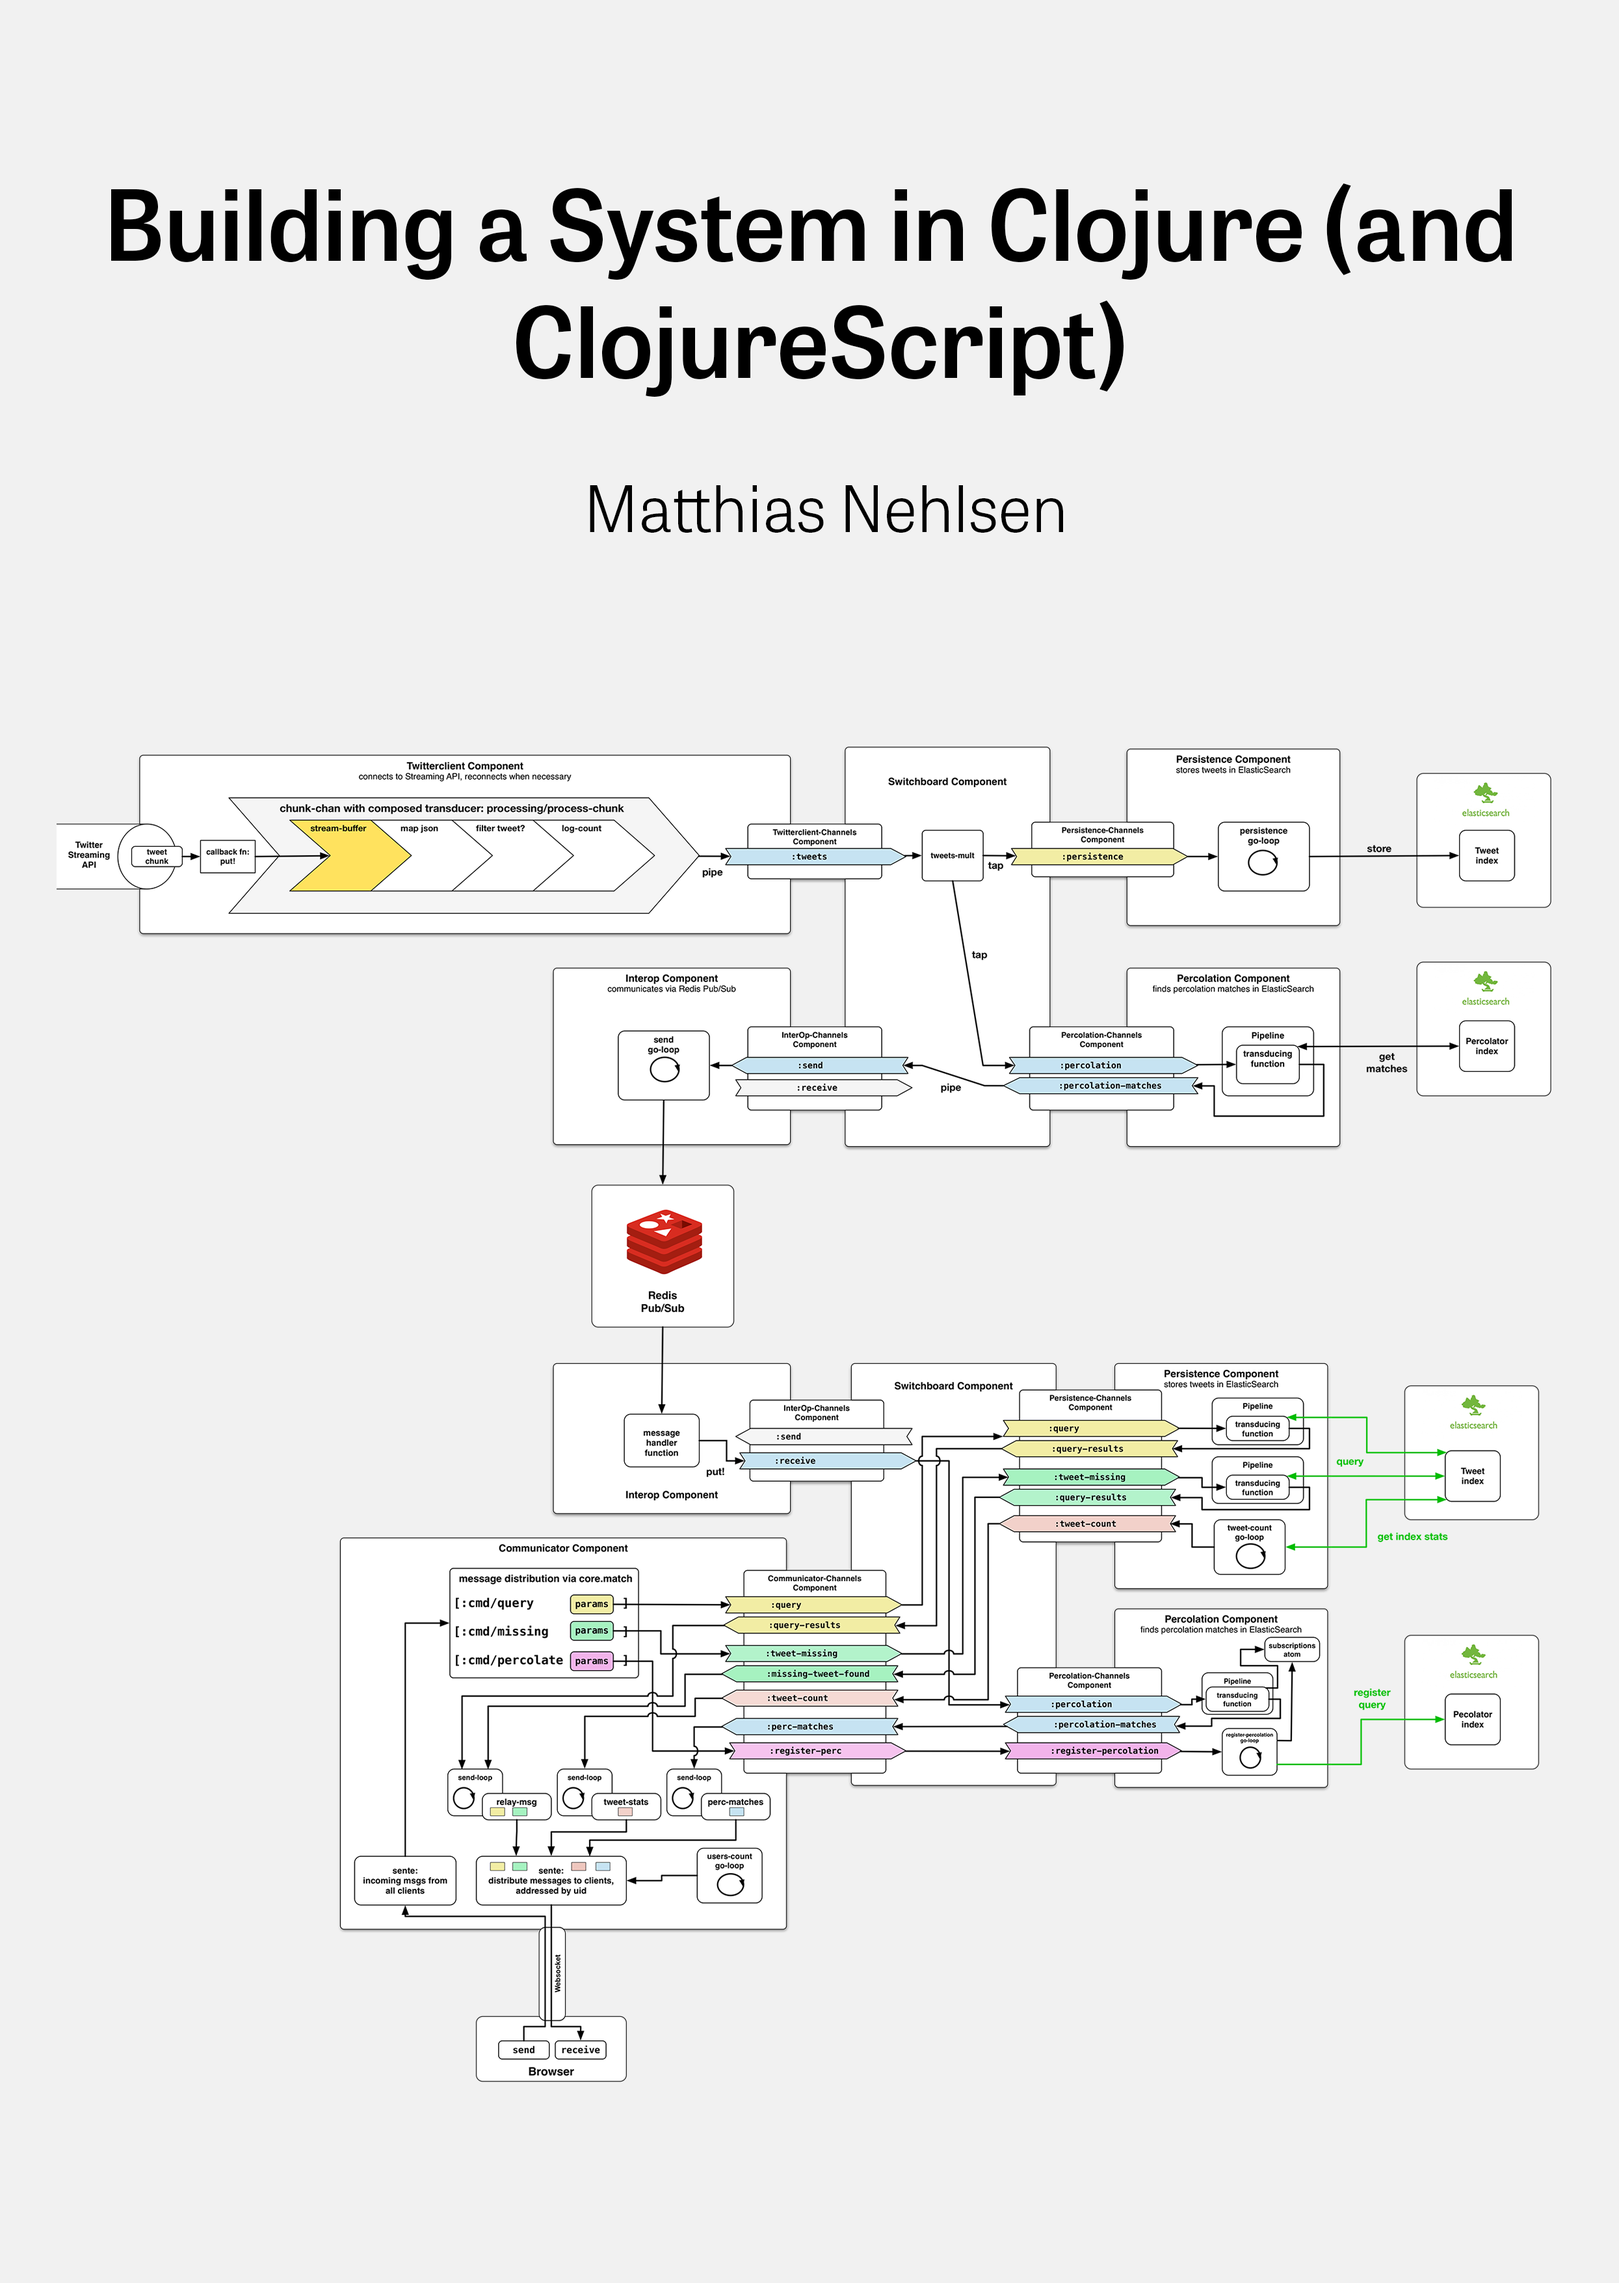
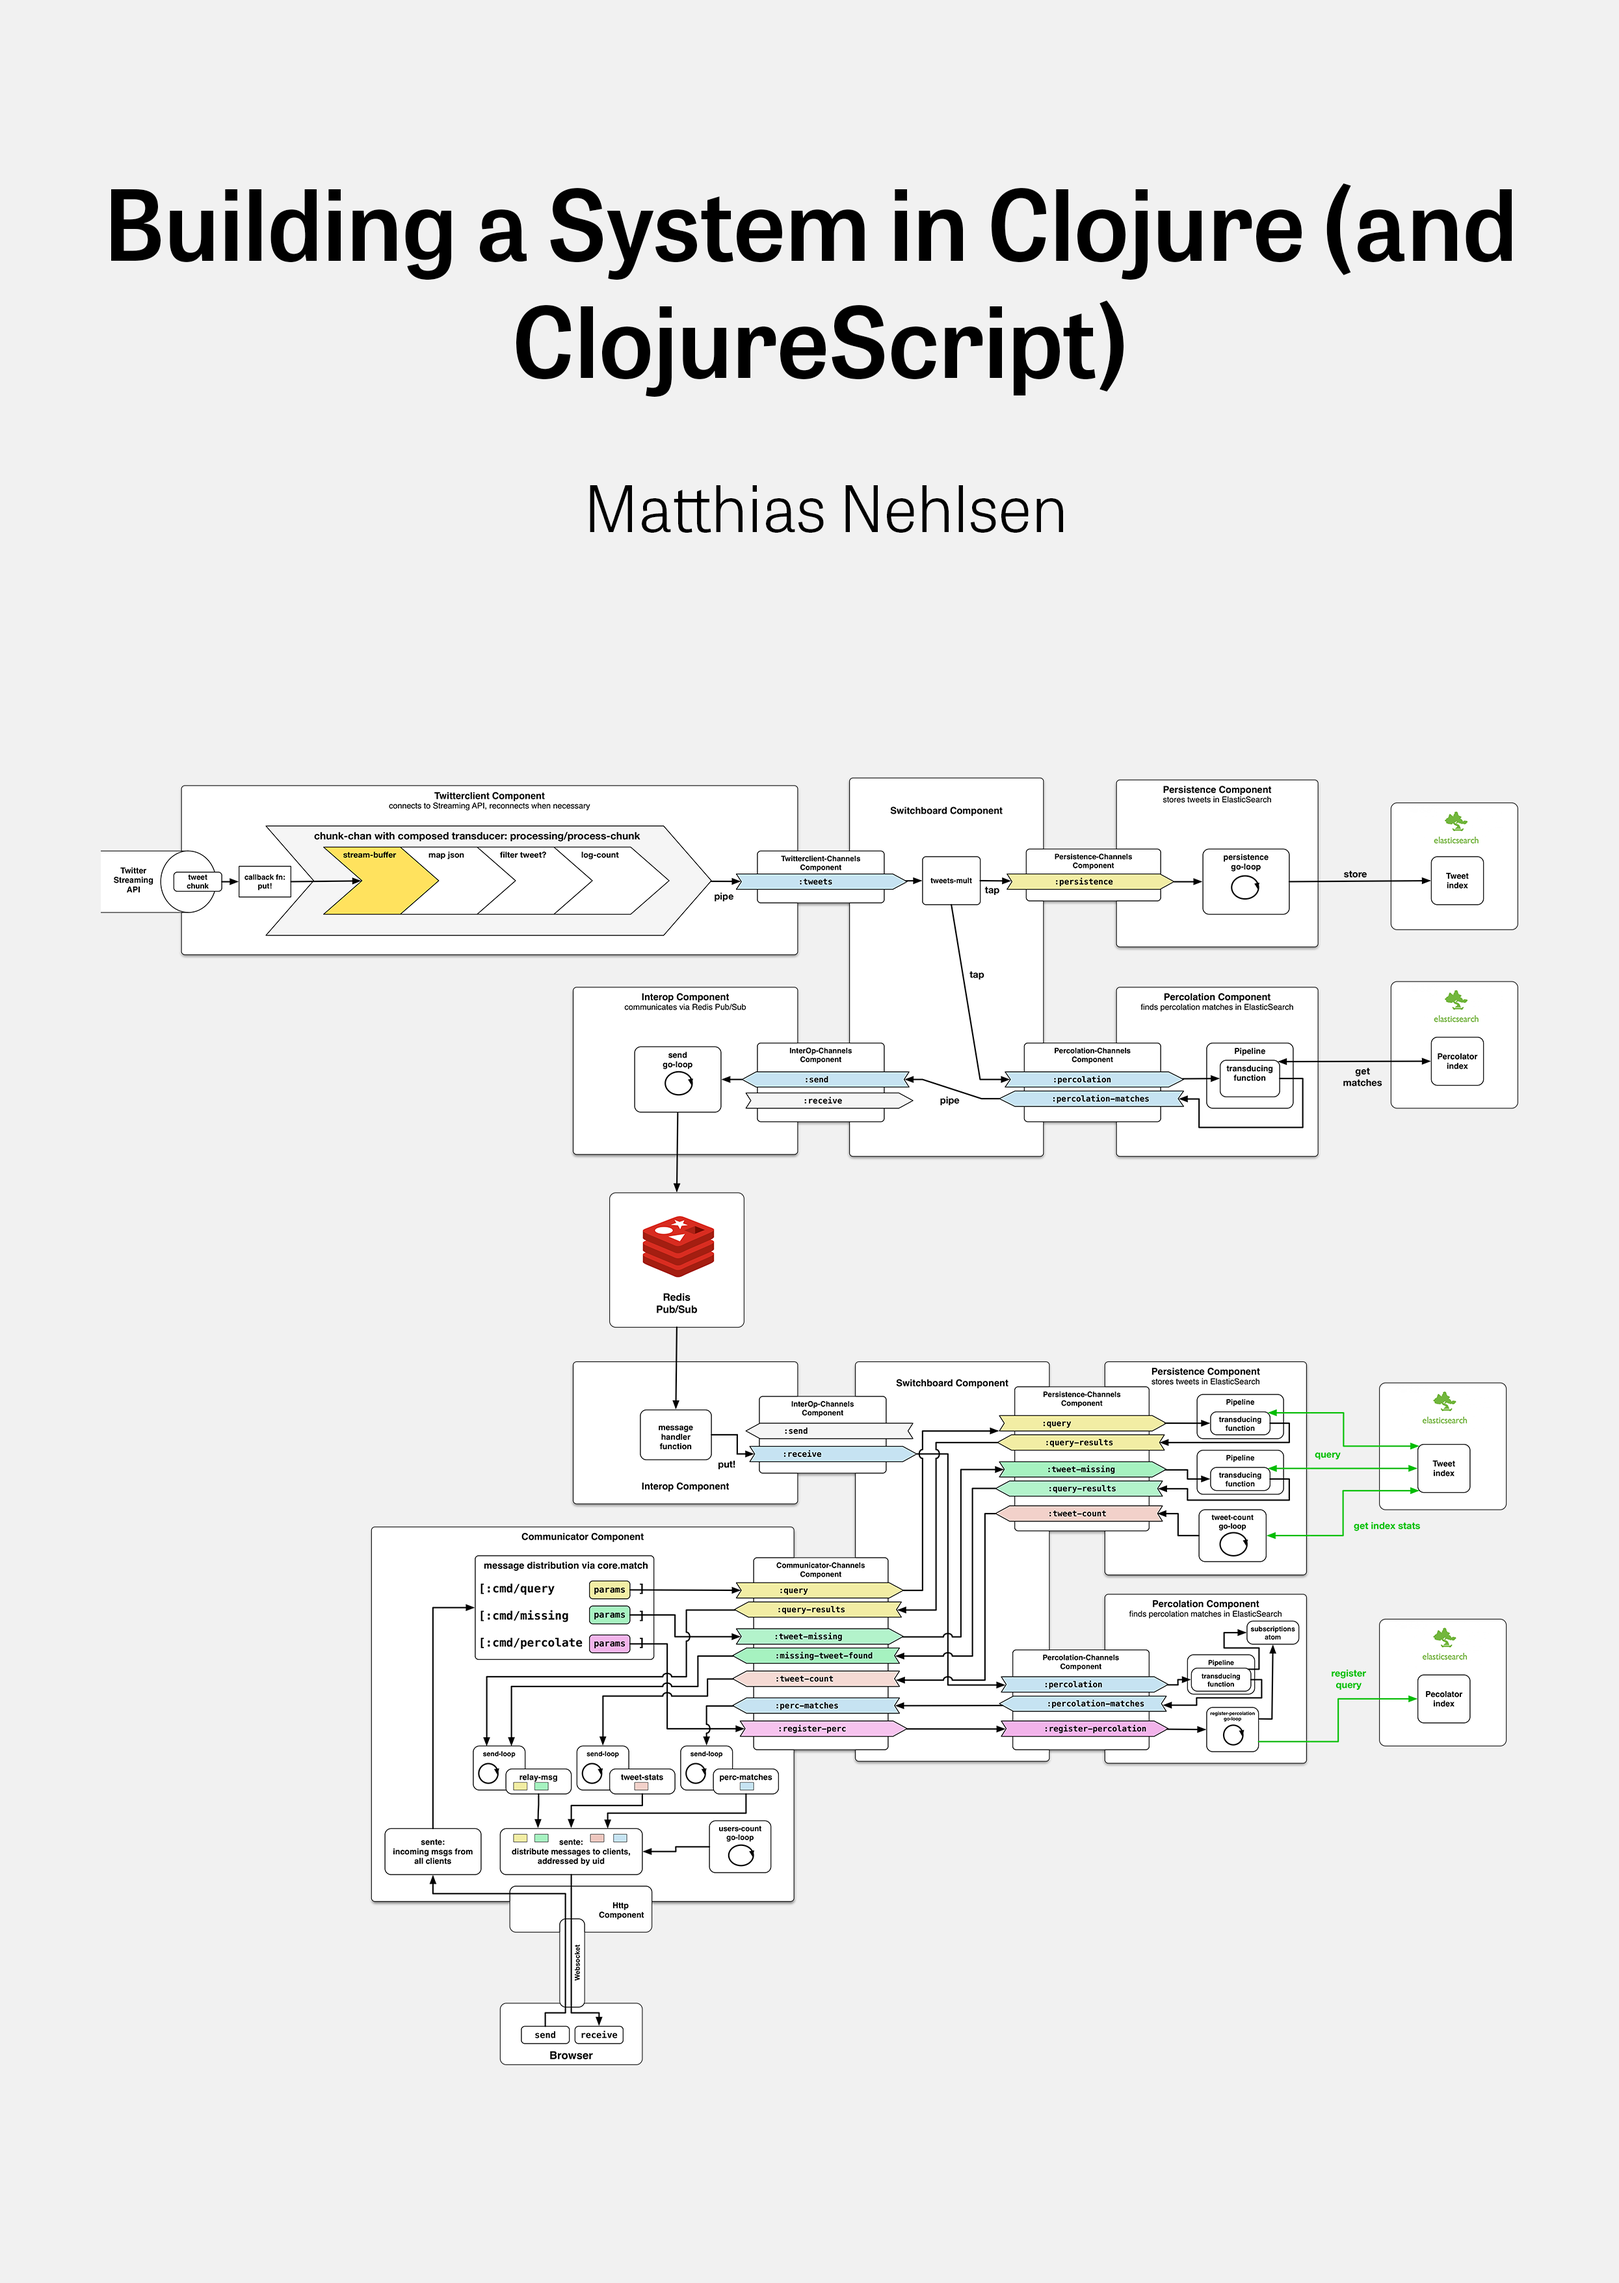
drawings

Changed region(s): [[0.0618, 0.3105, 0.9277, 0.9316]]

diff --git a/manuscript/MainApp-PercolationComponent.md b/manuscript/MainApp-PercolationComponent.md
@@ -4,7 +4,11 @@ This component first of all receives registration requests from connected web cl
 
 The component also receives the ````[t matches]```` vectors on the ````:percolation```` channel. These originate from the ````Percolator```` component inside the **TwitterClient** application and that each contain a ````map```` containing a ````tweet```` plus a ````set```` with the the IDs of all the ````matches````.
 
-A transducing function which has access to the ````subscriptions```` atom then passes the vector on, enriched by the dereferenced ````@subscriptions````. The result is then passed to the ````:percolation-matches```` channel through being deployed by a ````pipeline````. Without further ado, here's the **[code](https://github.com/matthiasn/BirdWatch/blob/43a9c09493257b9c9b5e9e5644df5f67085feb84/Clojure-Websockets/MainApp/src/clj/birdwatch/percolator/component.clj)**:
+A transducing function which has access to the ````subscriptions```` atom then passes the vector on, enriched by the dereferenced ````@subscriptions````. The result is then passed to the ````:percolation-matches```` channel through being deployed by a ````pipeline````. 
+
+![MainApp - Percolation Component](images/mainapp_percolation.png)
+
+Without further ado, here's the **[code](https://github.com/matthiasn/BirdWatch/blob/43a9c09493257b9c9b5e9e5644df5f67085feb84/Clojure-Websockets/MainApp/src/clj/birdwatch/percolator/component.clj)**:
 
 ~~~
 (ns birdwatch.percolator.component

diff --git a/manuscript/MainApp-PersistenceComponent.md b/manuscript/MainApp-PersistenceComponent.md
@@ -1,6 +1,10 @@
 ## MainApp - Persistence Component
 
-This component takes care of responding to queries for previous tweets by retrieving them from an index in ElasticSearch so that they can be delivered to the connected web client. It also responds to queries for single tweets that are missing in the user interface. This is not used yet but it will be. Finally, this component runs a loop that frequently sends out stats about the size of the ElasticSearch index that stores all the tweets. Here's how the **[component](https://github.com/matthiasn/BirdWatch/blob/d104db4a7ac7a745593e34398751f81a50d167d0/Clojure-Websockets/MainApp/src/clj/birdwatch/persistence/component.clj)** looks like:
+This component takes care of responding to queries for previous tweets by retrieving them from an index in ElasticSearch so that they can be delivered to the connected web client. It also responds to queries for single tweets that are missing in the user interface. This is not used yet but it will be. Finally, this component runs a loop that frequently sends out stats about the size of the ElasticSearch index that stores all the tweets.
+
+![MainApp - Persistence Component](images/mainapp_persistence.png)
+
+Here's how the **[component](https://github.com/matthiasn/BirdWatch/blob/d104db4a7ac7a745593e34398751f81a50d167d0/Clojure-Websockets/MainApp/src/clj/birdwatch/persistence/component.clj)** looks like:
 
 ~~~
 (ns birdwatch.persistence.component

diff --git a/manuscript/MainApp-HttpComponent.md b/manuscript/MainApp-HttpComponent.md
@@ -1,6 +1,10 @@
 ## Http Component
 
-The ````HttpServer```` component handles the network part of the interaction with the web clients, whereas the ````Communicator```` component we have seen in the last chapter handles the interaction with the client connections from the rest of the application. The ````Communicator```` component is a dependency of the ````HttpServer```` and gets passed when the application starts. Let's dive right into the **[code](https://github.com/matthiasn/BirdWatch/blob/574d2178be6f399086ad2a5ec35c200d252bf887/Clojure-Websockets/MainApp/src/clj/birdwatch/http/component.clj)**:
+The ````HttpServer```` component handles the network part of the interaction with the web clients, whereas the ````Communicator```` component we have seen in the last chapter handles the interaction with the client connections from the rest of the application.
+
+![MainApp - Http Component](images/mainapp_http.png)
+
+The ````Communicator```` component is a dependency of the ````HttpServer```` and gets passed when the application starts. Let's dive right into the **[code](https://github.com/matthiasn/BirdWatch/blob/574d2178be6f399086ad2a5ec35c200d252bf887/Clojure-Websockets/MainApp/src/clj/birdwatch/http/component.clj)**:
 
 ~~~
 (ns birdwatch.http.component

diff --git a/manuscript/MainApp-InteropComponent.md b/manuscript/MainApp-InteropComponent.md
@@ -4,7 +4,9 @@ This component takes care of receiving data from another JVM. As a quick reminde
 
 ![Redesigned Architecture - InterOp](images/redesign2.png)
 
-The code is comparable to the ````InterOp```` component on the other side, only that on this **[side](https://github.com/matthiasn/BirdWatch/blob/43a9c09493257b9c9b5e9e5644df5f67085feb84/Clojure-Websockets/MainApp/src/clj/birdwatch/interop/component.clj)** we don't publish but subscribe:
+The code is comparable to the ````InterOp```` component on the other side, only that on this **[side](https://github.com/matthiasn/BirdWatch/blob/43a9c09493257b9c9b5e9e5644df5f67085feb84/Clojure-Websockets/MainApp/src/clj/birdwatch/interop/component.clj)** we don't publish but subscribe.
+
+![MainApp - InterOp Component](images/mainapp_interop.png)
 
 ~~~
 (ns birdwatch.interop.component

diff --git a/manuscript/MainApp-WebsocketComponent.md b/manuscript/MainApp-WebsocketComponent.md
@@ -2,6 +2,8 @@
 
 This component handles the interaction with the web clients. It distributes messages coming from websocket clients to the appropriate channels of the application and vice versa.
 
+![MainApp - Communicator Component](images/mainapp_communicator.png)
+
 The actual communication with over the network is then handled by the HttpComponent, which we will look at briefly in the next chapter. Here are the ````Communicator```` and the ````Communicator-Channels``` **[components](https://github.com/matthiasn/BirdWatch/blob/a7a27c76fb4a882daa485d0231de30c1cc078652/Clojure-Websockets/MainApp/src/clj/birdwatch/communicator/component.clj)**:
 
 ~~~

diff --git a/manuscript/Architecture-Overview.md b/manuscript/Architecture-Overview.md
@@ -61,7 +61,7 @@ Let's walk through the interactions of the entire system step by step:
 
 So far, these changes are only partially implemented. **Decoupling** the processes between a Twitter client and the client-serving part is done and allows restarting the latter **without disconnecting** from the Streaming API and also allows horizontal scaling where multiple client-serving applications can connect to the Pub/Sub:
 
-![Redesigned Architecture - InterOp](images/redesign2.png)
+![Redesigned Architecture](images/overview.png)
 
 The server-side aggregation is not implemented yet, that part will follow soon.
 

diff --git a/manuscript/MainApp-Switchboard.md b/manuscript/MainApp-Switchboard.md
@@ -1,6 +1,10 @@
 ## MainApp - SwitchBoard Component
 
-The ````SwitchBoard```` component is comparable to the one that we saw in the **TwitterClient** application, only with more channels involved. Let's look at the code right away:
+The ````SwitchBoard```` component is comparable to the one that we saw in the **TwitterClient** application, only with more channels involved.
+
+![MainApp - SwitchBoard Component](images/mainapp_switchboard.png)
+
+Let's look at the code:
 
 ~~~
 (ns birdwatch.switchboard
